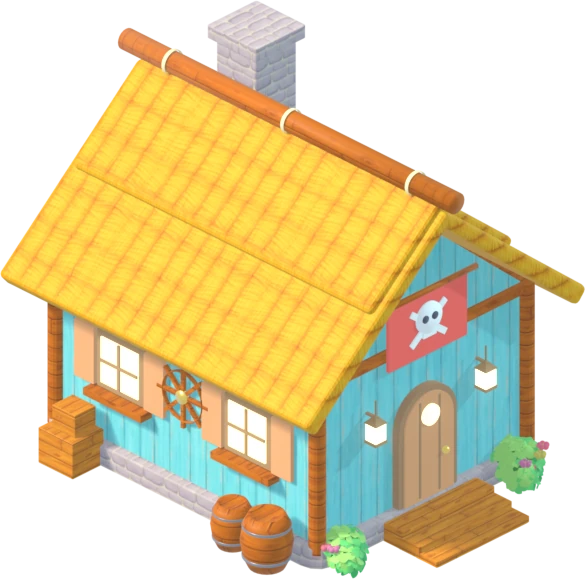
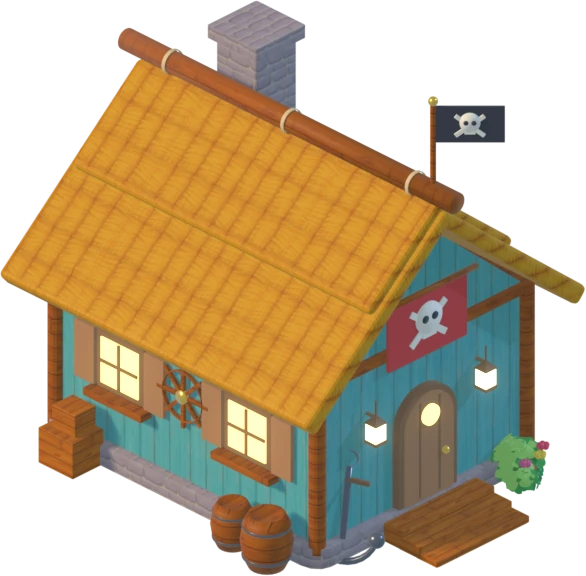
Pirate Cove: a moodier, more grown-up look
Golden-hour light and a sunset sky with a far-off galleon, deeper
weathered colours, black skull flags, a deck cannon and iron anchors.
Still smooth and family-friendly.

Claude-Session: https://claude.ai/code/session_018NGm5XoDovnLUTYRHnUZCu

diff --git a/living-town/art/blender/pirate_world.py b/living-town/art/blender/pirate_world.py
@@ -8,25 +8,25 @@ CASTLE.update({
     'grass': ((0.95, 0.82, 0.55), 0, 0, 'sand', 0.14), 'lawn': ((0.42, 0.72, 0.22), 0, 0, 'grass', 0.16),
     'sandwet': ((0.80, 0.64, 0.40), 0, 0, None, 0), 'dirt': ((0.86, 0.70, 0.44), 0, 0, None, 0),
     'planks': ((0.36, 0.70, 0.70), 0, 0, 'planks', 0.5), 'thatch': ((0.92, 0.72, 0.30), 0, 0, 'thatch', 0.42),
-    'hull': ((0.55, 0.34, 0.20), 0, 0, 'wood', 0.6), 'deck': ((0.80, 0.60, 0.36), 0, 0, 'wood', 0.7),
-    'cloud': ((0.97, 1.0, 1.0), 0.7, 0, None, 0), 'cloud2': ((0.72, 0.95, 0.96), 0.6, 0, None, 0),
-    'water': ((0.05, 0.70, 0.80), 0.5, 0, None, 0), 'falls': ((0.60, 0.92, 1.0), 0.7, 0, None, 0),
-    'cream': ((0.97, 0.94, 0.86), 0, 0, None, 0), 'white': ((0.98, 0.97, 0.94), 0, 0, None, 0), 'sail': ((0.99, 0.95, 0.84), 0, 0, None, 0),
-    'path': ((0.70, 0.52, 0.34), 0, 0, None, 0), 'trunk': ((0.52, 0.37, 0.24), 0, 0, None, 0), 'coconut': ((0.42, 0.27, 0.16), 0, 0, None, 0),
-    'leaf': ((0.09, 0.42, 0.15), 0, 0, None, 0), 'leaf2': ((0.18, 0.58, 0.19), 0, 0, None, 0), 'blossom': ((1.0, 0.26, 0.36), 0.12, 0, None, 0),
-    'rope': ((0.88, 0.74, 0.48), 0, 0, None, 0), 'iron': ((0.30, 0.31, 0.36), 0, 0.5, None, 0), 'black': ((0.10, 0.10, 0.14), 0, 0, None, 0),
-    'red': ((0.90, 0.17, 0.14), 0, 0, None, 0), 'flag': ((0.90, 0.17, 0.14), 0, 0, None, 0), 'mail': ((0.90, 0.17, 0.14), 0, 0, None, 0),
-    'door': ((0.74, 0.38, 0.20), 0, 0, None, 0), 'doorframe': ((0.42, 0.25, 0.14), 0, 0, None, 0), 'window': ((1.0, 0.80, 0.42), 1.5, 0, None, 0),
-    'wooddark': ((0.42, 0.25, 0.13), 0, 0, None, 0), 'bamboo': ((0.66, 0.50, 0.24), 0, 0, None, 0),
-    'flame': ((1.0, 0.42, 0.08), 1.3, 0, None, 0), 'flame2': ((1.0, 0.78, 0.25), 1.6, 0, None, 0), 'lightglow': ((1.0, 0.94, 0.60), 3.0, 0, None, 0),
+    'hull': ((0.55, 0.34, 0.20), 0, 0, 'wood', 0.6), 'deck': ((0.80, 0.60, 0.36), 0, 0, 'wood', 0.7), 'gold': ((0.80, 0.56, 0.16), 0, 0.8, None, 0),
+    'cloud': ((0.90, 0.94, 0.92), 0.35, 0, None, 0), 'cloud2': ((0.50, 0.76, 0.80), 0.3, 0, None, 0),
+    'water': ((0.03, 0.46, 0.58), 0.35, 0, None, 0), 'falls': ((0.50, 0.80, 0.90), 0.5, 0, None, 0),
+    'cream': ((0.84, 0.78, 0.66), 0, 0, None, 0), 'white': ((0.82, 0.78, 0.70), 0, 0, None, 0), 'sail': ((0.80, 0.73, 0.58), 0, 0, None, 0),
+    'path': ((0.46, 0.31, 0.19), 0, 0, None, 0), 'trunk': ((0.42, 0.29, 0.19), 0, 0, None, 0), 'coconut': ((0.42, 0.27, 0.16), 0, 0, None, 0),
+    'leaf': ((0.04, 0.26, 0.09), 0, 0, None, 0), 'leaf2': ((0.08, 0.36, 0.10), 0, 0, None, 0), 'blossom': ((0.72, 0.10, 0.16), 0, 0, None, 0),
+    'rope': ((0.66, 0.52, 0.32), 0, 0, None, 0), 'iron': ((0.16, 0.17, 0.20), 0, 0.6, None, 0), 'black': ((0.05, 0.05, 0.07), 0, 0, None, 0),
+    'red': ((0.52, 0.07, 0.07), 0, 0, None, 0), 'flag': ((0.52, 0.07, 0.07), 0, 0, None, 0), 'mail': ((0.52, 0.07, 0.07), 0, 0, None, 0),
+    'door': ((0.40, 0.22, 0.12), 0, 0, None, 0), 'doorframe': ((0.24, 0.14, 0.08), 0, 0, None, 0), 'window': ((1.0, 0.62, 0.22), 2.0, 0, None, 0),
+    'wooddark': ((0.26, 0.15, 0.08), 0, 0, None, 0), 'bamboo': ((0.40, 0.27, 0.14), 0, 0, None, 0),
+    'flame': ((1.0, 0.42, 0.08), 1.3, 0, None, 0), 'flame2': ((1.0, 0.78, 0.25), 1.6, 0, None, 0), 'lightglow': ((1.0, 0.80, 0.40), 3.0, 0, None, 0),
     'lampglow': ((1.0, 0.82, 0.45), 2.4, 0, None, 0), 'glass': ((0.45, 0.88, 0.80), 0.35, 0, None, 0),
-    'shell': ((0.92, 0.46, 0.50), 0, 0, None, 0), 'shell2': ((0.86, 0.72, 0.52), 0, 0, None, 0), 'shell3': ((0.58, 0.46, 0.82), 0, 0, None, 0),
-    'starfish': ((0.95, 0.40, 0.18), 0, 0, None, 0), 'pebble': ((0.60, 0.60, 0.64), 0, 0, None, 0), 'pearl': ((0.86, 0.84, 0.86), 0, 0, None, 0),
-    'f0': ((1.0, 0.35, 0.60), 0.05, 0, None, 0), 'f1': ((1.0, 0.55, 0.15), 0.05, 0, None, 0), 'f2': ((1.0, 0.98, 0.95), 0, 0, None, 0),
-    'f3': ((1.0, 0.85, 0.25), 0.05, 0, None, 0), 'f4': ((0.95, 0.22, 0.25), 0.05, 0, None, 0),
+    'shell': ((0.66, 0.36, 0.34), 0, 0, None, 0), 'shell2': ((0.66, 0.54, 0.38), 0, 0, None, 0), 'shell3': ((0.42, 0.36, 0.52), 0, 0, None, 0),
+    'starfish': ((0.72, 0.28, 0.12), 0, 0, None, 0), 'pebble': ((0.40, 0.40, 0.43), 0, 0, None, 0), 'pearl': ((0.86, 0.84, 0.86), 0, 0, None, 0),
+    'f0': ((0.66, 0.14, 0.30), 0, 0, None, 0), 'f1': ((0.80, 0.36, 0.08), 0, 0, None, 0), 'f2': ((0.80, 0.76, 0.66), 0, 0, None, 0),
+    'f3': ((0.82, 0.60, 0.12), 0, 0, None, 0), 'f4': ((0.60, 0.08, 0.10), 0, 0, None, 0),
     'crystal': ((0.30, 0.85, 0.60), 0.5, 0, None, 0), 'crystal1': ((1.0, 0.35, 0.50), 0.5, 0, None, 0), 'crystal2': ((0.35, 0.60, 1.0), 0.5, 0, None, 0),
 })
-TEXTINT = {'thatch': (0.74, 0.60, 0.42), 'hull': (0.78, 0.60, 0.50), 'stone': (0.90, 0.86, 0.70)}
+TEXTINT = {'thatch': (0.56, 0.44, 0.30), 'hull': (0.52, 0.40, 0.34), 'deck': (0.70, 0.60, 0.50), 'planks': (0.50, 0.62, 0.62), 'stone': (0.62, 0.60, 0.52)}
 
 def mat(col, rough=0.6):
     if col == CLAY: col = TINT[0] or 'cream'
@@ -49,15 +49,15 @@ def mat(col, rough=0.6):
             if col in TEXTINT: mx.inputs['B'].default_value = (*TEXTINT[col], 1)
             else:   # big soft light/dark patches, so the sand and lawn aren't one flat colour
                 n = nt.nodes.new('ShaderNodeTexNoise'); n.inputs['Scale'].default_value = 0.35; ramp = nt.nodes.new('ShaderNodeValToRGB')
-                lo, hi = ((0.82, 0.68, 0.50), (0.94, 0.84, 0.64)) if col == 'grass' else ((0.48, 0.60, 0.40), (0.72, 0.80, 0.58))
-                if col == 'grass': mx.blend_type = 'MIX'; mx.inputs['Factor'].default_value = 0.45   # paler, softer sand than the painted texture
+                lo, hi = ((0.60, 0.47, 0.32), (0.76, 0.62, 0.43)) if col == 'grass' else ((0.34, 0.46, 0.28), (0.52, 0.62, 0.40))
+                if col == 'grass': mx.blend_type = 'MIX'; mx.inputs['Factor'].default_value = 0.6   # warmer, deeper, softer sand than the painted texture
                 ramp.color_ramp.elements[0].color = (*lo, 1); ramp.color_ramp.elements[1].color = (*hi, 1)
                 nt.links.new(g.outputs['Position'], n.inputs['Vector']); nt.links.new(n.outputs['Fac'], ramp.inputs['Fac']); nt.links.new(ramp.outputs['Color'], mx.inputs['B'])
             nt.links.new(mx.outputs['Result'], p.inputs['Base Color'])
         else: nt.links.new(im.outputs['Color'], p.inputs['Base Color'])
     if col == 'boulder':
         n = nt.nodes.new('ShaderNodeTexNoise'); n.inputs['Scale'].default_value = 6; ramp = nt.nodes.new('ShaderNodeValToRGB')
-        ramp.color_ramp.elements[0].color = (0.40, 0.37, 0.36, 1); ramp.color_ramp.elements[1].color = (0.66, 0.62, 0.57, 1)
+        ramp.color_ramp.elements[0].color = (0.24, 0.23, 0.24, 1); ramp.color_ramp.elements[1].color = (0.50, 0.47, 0.44, 1)
         nt.links.new(n.outputs['Fac'], ramp.inputs['Fac']); nt.links.new(ramp.outputs['Color'], p.inputs['Base Color'])
     _mats[col] = m; return m
 
@@ -95,14 +95,38 @@ def prism(ax, bx, ay, by, z0, z1, col):
 def barrel(x, y, z=0.0, s=1.0):
     revolve(x, y, z, [(0.2 * s, 0), (0.26 * s, 0.13 * s), (0.29 * s, 0.32 * s), (0.26 * s, 0.52 * s), (0.2 * s, 0.64 * s), (0.17 * s, 0.62 * s), (0.001, 0.62 * s)], 'hull', 24, 'barrel')
     for zz, rr in ((0.14, 0.265), (0.5, 0.265)): ring(x, y, z + zz * s, rr * s, rr * s, 0.018 * s, 'iron')
-def skull(x, y, z, a, s=1.0):
+def skull(x, y, z, a, s=1.0, bone='white', eye='black'):
     # a friendly little skull-and-crossbones badge facing outward at angle a
     ca, sa = math.cos(a), math.sin(a)
     for t in (-38, 38):
-        o = rbox(-0.012, -0.3 * s, -0.035 * s, 0.012, 0.3 * s, 0.035 * s, 'white', 0.01); o.location = (x + ca * 0.01, y + sa * 0.01, z - 0.03 * s); o.rotation_euler = (R(t), 0, a)
-    disc(x + ca * 0.02, y + sa * 0.02, z + 0.04 * s, a, 0.17 * s, 'white', 0.04)
-    o = rbox(-0.02, -0.09 * s, -0.07 * s, 0.02, 0.09 * s, 0.05 * s, 'white', 0.015); o.location = (x + ca * 0.02, y + sa * 0.02, z - 0.11 * s); o.rotation_euler = (0, 0, a)
-    for k in (-1, 1): disc(x + ca * 0.035 - sa * k * 0.065 * s, y + sa * 0.035 + ca * k * 0.065 * s, z + 0.045 * s, a, 0.042 * s, 'black', 0.03)
+        o = rbox(-0.012, -0.3 * s, -0.035 * s, 0.012, 0.3 * s, 0.035 * s, bone, 0.01); o.location = (x + ca * 0.01, y + sa * 0.01, z - 0.03 * s); o.rotation_euler = (R(t), 0, a)
+    disc(x + ca * 0.02, y + sa * 0.02, z + 0.04 * s, a, 0.17 * s, bone, 0.04)
+    o = rbox(-0.02, -0.09 * s, -0.07 * s, 0.02, 0.09 * s, 0.05 * s, bone, 0.015); o.location = (x + ca * 0.02, y + sa * 0.02, z - 0.11 * s); o.rotation_euler = (0, 0, a)
+    for k in (-1, 1): disc(x + ca * 0.035 - sa * k * 0.065 * s, y + sa * 0.035 + ca * k * 0.065 * s, z + 0.045 * s, a, 0.042 * s, eye, 0.03)
+def cannon(x, y, z, a, s=1.0):
+    # an iron deck gun on a little wooden carriage, pointing along angle a
+    ca, sa = math.cos(a), math.sin(a)
+    b = revolve(0, 0, 0, [(0.001, -0.05), (0.06, -0.04), (0.07, 0.0), (0.15, 0.03), (0.165, 0.14), (0.14, 0.24), (0.115, 0.9), (0.15, 0.93), (0.15, 1.0), (0.085, 1.0), (0.075, 0.9), (0.001, 0.9)], 'iron', 24, 'cannon')
+    b.scale = (s, s, s); b.rotation_euler = (0, R(80), a); b.location = (x - ca * 0.42 * s, y - sa * 0.42 * s, z + 0.3 * s)
+    o = rbox(-0.38 * s, -0.17 * s, -0.09 * s, 0.3 * s, 0.17 * s, 0.09 * s, 'hull', 0.03); o.location = (x - ca * 0.04 * s, y - sa * 0.04 * s, z + 0.17 * s); o.rotation_euler = (0, 0, a)
+    for u in (-0.26, 0.2):
+        for v in (-0.2, 0.2):
+            bpy.ops.mesh.primitive_cylinder_add(vertices=20, radius=0.11 * s, depth=0.06 * s, location=(x + (ca * u - sa * v) * s, y + (sa * u + ca * v) * s, z + 0.11 * s), rotation=(R(90), 0, a)); put(bpy.context.object, 'wooddark', True)
+    for k, (u, v, w) in enumerate(((0.55, 0.36, 0.08), (0.72, 0.36, 0.08), (0.635, 0.5, 0.08), (0.635, 0.41, 0.2))): ball(x + (ca * u - sa * v) * s, y + (sa * u + ca * v) * s, z + w * s, 0.085 * s, 0.085 * s, 0.085 * s, 'iron')
+def anchor(x, y, z, a, s=1.0, lean=0.22):
+    # a big iron anchor stuck in the sand, leaning back a little; its flat side faces angle a - 90
+    ca, sa = math.cos(a), math.sin(a); nx, ny = -sa * lean, ca * lean
+    P = lambda u, v: (x + (ca * u + nx * v) * s, y + (sa * u + ny * v) * s, z + v * s)
+    tube([(*P(0, 0.05), 0.05 * s), (*P(0, 1.25), 0.045 * s)], 'iron', 12, 'shank')
+    tube([(*P(0.5 * math.sin(t), 0.5 - 0.5 * math.cos(t)), (0.05 - 0.012 * abs(t)) * s) for t in [k / 6 * 1.25 for k in range(-6, 7)]], 'iron', 12, 'arms')
+    for k in (-1, 1): ball(*P(k * 0.5 * math.sin(1.25), 0.5 - 0.5 * math.cos(1.25) + 0.03), 0.11 * s, 0.11 * s, 0.11 * s, 'iron')
+    tube([(*P(-0.3, 1.08), 0.04 * s), (*P(0.3, 1.08), 0.04 * s)], 'wooddark', 10, 'stock')
+    o = ring(*P(0, 1.36), 0.11 * s, 0.11 * s, 0.03 * s, 'iron'); o.rotation_euler = (R(90) - math.atan(lean), 0, a)
+def jolly(x, y, z0, h=1.2, a=R(45), s=1.0):
+    # a black flag with the skull on a pole
+    cyl(x, y, z0, 0.035, h, 'hull', 10); ball(x, y, z0 + h, 0.06, 0.06, 0.06, 'gold')
+    ca, sa = math.cos(a), math.sin(a); o = rbox(0, -0.015, 0, 0.85 * s, 0.015, 0.5 * s, 'black', 0.01); o.location = (x + ca * 0.45 * s, y + sa * 0.45 * s, z0 + h - 0.32 * s); o.rotation_euler = (0, 0, a)
+    skull(x + ca * 0.45 * s + sa * 0.03, y + sa * 0.45 * s - ca * 0.03, z0 + h - 0.3 * s, a - R(90), 0.75 * s)
 def hibiscus(x, y, z, s=1.0, col='blossom'):
     for j in range(5): ball(x + 0.06 * s * math.cos(j * 1.256), y + 0.06 * s * math.sin(j * 1.256), z, 0.05 * s, 0.05 * s, 0.05 * s, col)
     ball(x, y, z, 0.03 * s, 0.03 * s, 0.03 * s, 'f3')
@@ -188,7 +212,7 @@ def shack_scene():
     disc(wx, ay - 0.08, wz, R(-90), 0.09, 'gold', 0.06)
     barrel(bx - 0.45, ay - 0.42, 0, 1.15); barrel(bx - 1.1, ay - 0.36, 0, 0.95)
     rbox(ax + 0.3, ay - 0.62, 0, ax + 0.9, ay - 0.08, 0.5, 'deck', 0.03); rbox(ax + 0.42, ay - 0.5, 0.5, ax + 0.82, ay - 0.14, 0.82, 'deck', 0.03)
-    bush(x1 + 0.1, dy + 1.45, 0.8, 5, 2); bush(x1 + 0.05, dy - 1.5, 0.7, 4, 3)
+    bush(x1 + 0.1, dy + 1.45, 0.8, 5, 2); anchor(x1 + 0.0, dy - 1.5, 0, R(20), 0.95); jolly(bx + 0.2, dy, 4.6, 1.3)
 
 def ship_scene():
     h = L['house']; x1 = h['x1']; dy = h['door'][1]; xs = x1 - 0.15; tf = lambda x, y, z: (xs + x, dy + y, z)
@@ -215,14 +239,15 @@ def ship_scene():
     for v in range(10):
         for u in range(10): bm.faces.new((g[v][u], g[v][u + 1], g[v + 1][u + 1], g[v + 1][u]))
     o = _obj(bm, 'sail', 'sail'); o.modifiers.new('s', 'SOLIDIFY').thickness = 0.04
-    skull(mx + 0.71, dy, 5.15, 0, 2.2)
+    skull(mx + 0.71, dy, 5.15, 0, 2.2, 'black', 'sail')
     revolve(mx, dy, 6.55, [(0.26, 0), (0.36, 0.34), (0.38, 0.38), (0.34, 0.38), (0.24, 0.06), (0.001, 0.06)], 'deck', 24, 'nest'); ring(mx, dy, 6.92, 0.37, 0.37, 0.03, 'red')
     ball(mx, dy, 7.52, 0.07, 0.07, 0.07, 'gold')
     o = rbox(0, -0.015, 0, 0.85, 0.015, 0.5, 'black', 0.01); o.location = (mx + 0.31, dy + 0.31, 7.2); o.rotation_euler = (0, 0, R(45))
     skull(mx + 0.32, dy + 0.28, 7.22, R(-45), 0.75)
     tube([(xs - 4.9, dy, 2.45, 0.07), (xs - 5.35, dy, 2.75, 0.06), (xs - 5.75, dy, 3.1, 0.04)], 'hull', 10)   # bowsprit
     rope(mx, dy, 6.5, xs - 5.7, dy, 3.1, 0.25, 0.018)
-    barrel(x1 + 0.0, dy + 1.25, 0, 0.9); bush(x1 + 0.05, dy - 1.5, 0.7, 4, 5)
+    barrel(x1 + 0.0, dy + 1.25, 0, 0.9); anchor(x1 + 0.05, dy - 1.55, 0, R(15), 0.95)
+    w, zd = at(0.2); cannon(xs - 4.75 * 0.2 - 1.55, dy - w + 0.75, zd * 0.86, R(-90), 0.8)
 
 def light_scene():
     h = L['house']; x1 = h['x1']; dy = h['door'][1]; cx, cy = 6.6, dy; rad = lambda z: 1.78 - 0.165 * z
@@ -242,7 +267,7 @@ def light_scene():
     lantern(x1 - 0.02, dy - 0.95, 1.45); box(x1 - 0.2, dy - 0.97, 1.75, x1, dy - 0.93, 1.78, 'iron')
     for (a, d, s) in ((-70, 2.3, 0.42), (-105, 2.35, 0.5), (-140, 2.3, 0.36), (65, 2.3, 0.45), (120, 2.35, 0.5), (170, 2.25, 0.4)):
         ball(cx + math.cos(R(a)) * d, cy + math.sin(R(a)) * d, 0.08, s * 1.2, s, s * 0.8, 'boulder')
-    bush(cx + math.cos(R(-42)) * 2.25, cy + math.sin(R(-42)) * 2.25, 0.7, 4, 6); starfish(cx - 0.4, cy - 2.2, 0.5, 2.2, 'starfish', 0.4)
+    bush(cx + math.cos(R(-42)) * 2.25, cy + math.sin(R(-42)) * 2.25, 0.7, 4, 6); anchor(cx - 0.5, cy - 2.15, 0.3, R(5), 1.0)
 
 def chest_scene():
     h = L['house']; x1 = h['x1']; dy = h['door'][1]; ax, bx, ay, by = 4.25, x1 - 0.15, dy - 1.9, dy + 1.9; mx = (ax + bx) / 2; rr0 = (bx - ax) / 2
@@ -275,7 +300,7 @@ def chest_scene():
     for k, (gx, gy, gz) in enumerate(((tx - 0.05, ty - 0.25, 0.26), (tx - 0.5, ty - 0.2, 0.2), (tx - 0.25, ty - 0.42, 0.14))): ball(gx, gy, gz, 0.09, 0.09, 0.09, ('crystal1', 'crystal', 'crystal2')[k])
     ball(tx + 0.22, ty - 0.3, 0.08, 0.07, 0.07, 0.07, 'pearl')
     lantern(bx + 0.14, dy - 0.95, 1.9, 0.9); box(bx - 0.02, dy - 0.97, 2.17, bx + 0.16, dy - 0.93, 2.2, 'gold')
-    bush(x1 + 0.05, dy + 1.5, 0.75, 5, 7)
+    bush(x1 + 0.05, dy + 1.5, 0.75, 5, 7); anchor(ax + 0.6, ay - 0.3, 0, R(8), 0.9)
 
 HOUSES = (('shack', shack_scene), ('ship', ship_scene), ('light', light_scene), ('chest', chest_scene))
 castle_scene = shack_scene
@@ -338,7 +363,7 @@ def ground_castle():
     tf = lambda x, y, z: (bx_ + x * ca - y * sa, by_ + x * sa + y * ca, -0.56 + z)
     hull(tf, 1.9, 0.5, 0.42, 0.08, 0.3, M=12, N=14)
     for xx in (-0.5, -1.15): o = rbox(-0.09, -0.4, -0.02, 0.09, 0.4, 0.02, 'deck', 0.01); o.location = tf(xx, 0, 0.34); o.rotation_euler = (0, 0, ang)
-    starfish(9.0, -1.0, -0.48, 2.0, 'starfish', 0.5); seashell(5.3, -0.8, -0.44, 2.2, 'shell'); seashell(12.5, -0.9, -0.48, 2.0, 'shell3')
+    anchor(9.3, -0.75, -0.42, R(10), 1.1); starfish(10.6, -1.0, -0.5, 2.0, 'starfish', 0.5); seashell(5.3, -0.8, -0.44, 2.2, 'shell'); seashell(12.5, -0.9, -0.48, 2.0, 'shell3')
 
 # ---------- small things ----------
 def c_tree(): palm()

diff --git a/living-town/art/blender/homestead.py b/living-town/art/blender/homestead.py
@@ -70,9 +70,9 @@ def reset(w, h, scale, centre):
         gl.inputs['Type'].default_value = 'Bloom'; gl.inputs['Threshold'].default_value = 0.7; gl.inputs['Strength'].default_value = 0.8; gl.inputs['Size'].default_value = 0.6
         nt.links.new(rl.outputs['Image'], gl.inputs['Image']); nt.links.new(gl.outputs['Image'], out.inputs[0])
     if THEME == 'pirate':   # bright tropical sun, sea-blue fill light, a little bloom
-        sun.color = (1.0, 0.95, 0.82); sun.energy = 2.7; so.rotation_euler = (R(46), 0, R(-30))
-        rim = bpy.data.lights.new('rim', 'SUN'); rim.energy = 0.9; rim.color = (0.60, 0.88, 1.0); ro = bpy.data.objects.new('rim', rim); sc.collection.objects.link(ro); ro.rotation_euler = (R(60), 0, R(150))
-        wd.node_tree.nodes['Background'].inputs[1].default_value = 0.6
+        sun.color = (1.0, 0.78, 0.55); sun.energy = 1.9; so.rotation_euler = (R(57), 0, R(-30))
+        rim = bpy.data.lights.new('rim', 'SUN'); rim.energy = 0.8; rim.color = (0.42, 0.62, 0.95); ro = bpy.data.objects.new('rim', rim); sc.collection.objects.link(ro); ro.rotation_euler = (R(60), 0, R(150))
+        wd.node_tree.nodes['Background'].inputs[1].default_value = 0.4
         nt = bpy.data.node_groups.new('comp', 'CompositorNodeTree'); sc.compositing_node_group = nt
         nt.interface.new_socket('Image', in_out='OUTPUT', socket_type='NodeSocketColor')
         rl = nt.nodes.new('CompositorNodeRLayers'); gl = nt.nodes.new('CompositorNodeGlare'); out = nt.nodes.new('NodeGroupOutput')

diff --git a/living-town/art/build_homestead.py b/living-town/art/build_homestead.py
@@ -12,7 +12,7 @@ RD, WD = sys.argv[1], sys.argv[2]
 WORLD = sys.argv[3] if len(sys.argv) > 3 else ''   # e.g. scifi -> public/homestead/worlds/scifi/
 OUT = os.path.join(os.path.dirname(__file__), '..', 'public', 'homestead', *(['worlds', WORLD] if WORLD else [])); os.makedirs(OUT, exist_ok=True)
 cam = json.load(open(os.path.join(RD, 'camera.json')))
-art = {'camera': cam, 'sprites': {}, 'walkers': {}, 'bg': {'scifi': '#2b1d47', 'castle': '#e7b3d3', 'night': '#1d1a4a', 'pirate': '#3ec6d0'}.get(WORLD, '#7d8fae')}
+art = {'camera': cam, 'sprites': {}, 'walkers': {}, 'bg': {'scifi': '#2b1d47', 'castle': '#e7b3d3', 'night': '#1d1a4a', 'pirate': '#0d3a4a'}.get(WORLD, '#7d8fae')}
 # a painted sky behind the island (Cloud Castle)
 SKY = os.path.join(os.path.dirname(__file__), 'textures', WORLD, 'sky.jpg') if WORLD else ''
 if SKY and os.path.exists(SKY): Image.open(SKY).convert('RGB').save(os.path.join(OUT, 'sky.webp'), quality=85, method=6); art['sky'] = True
